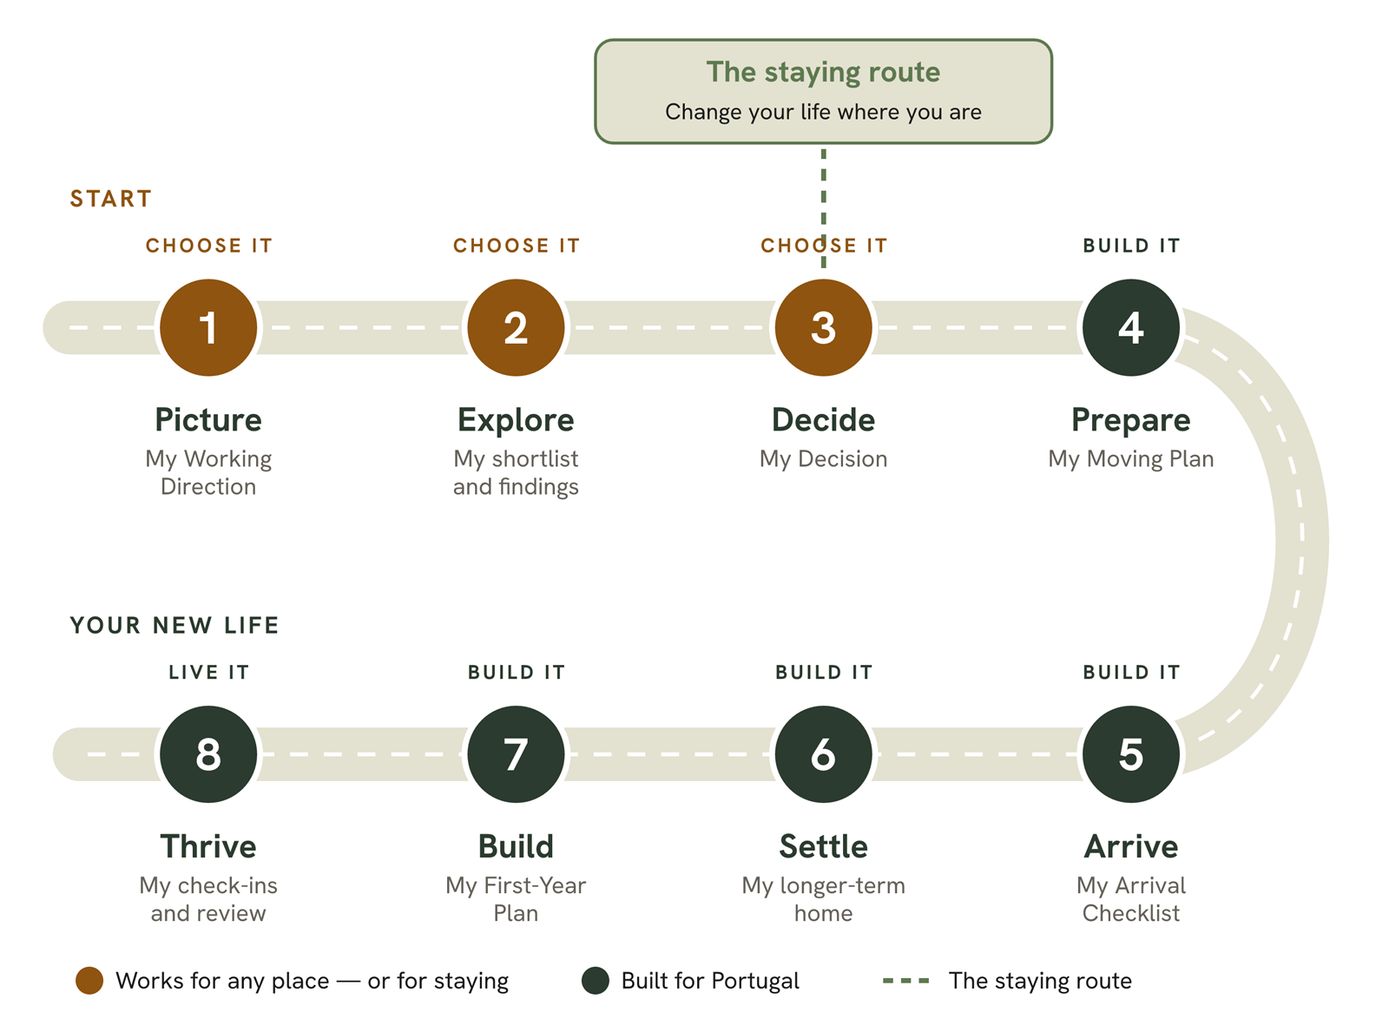
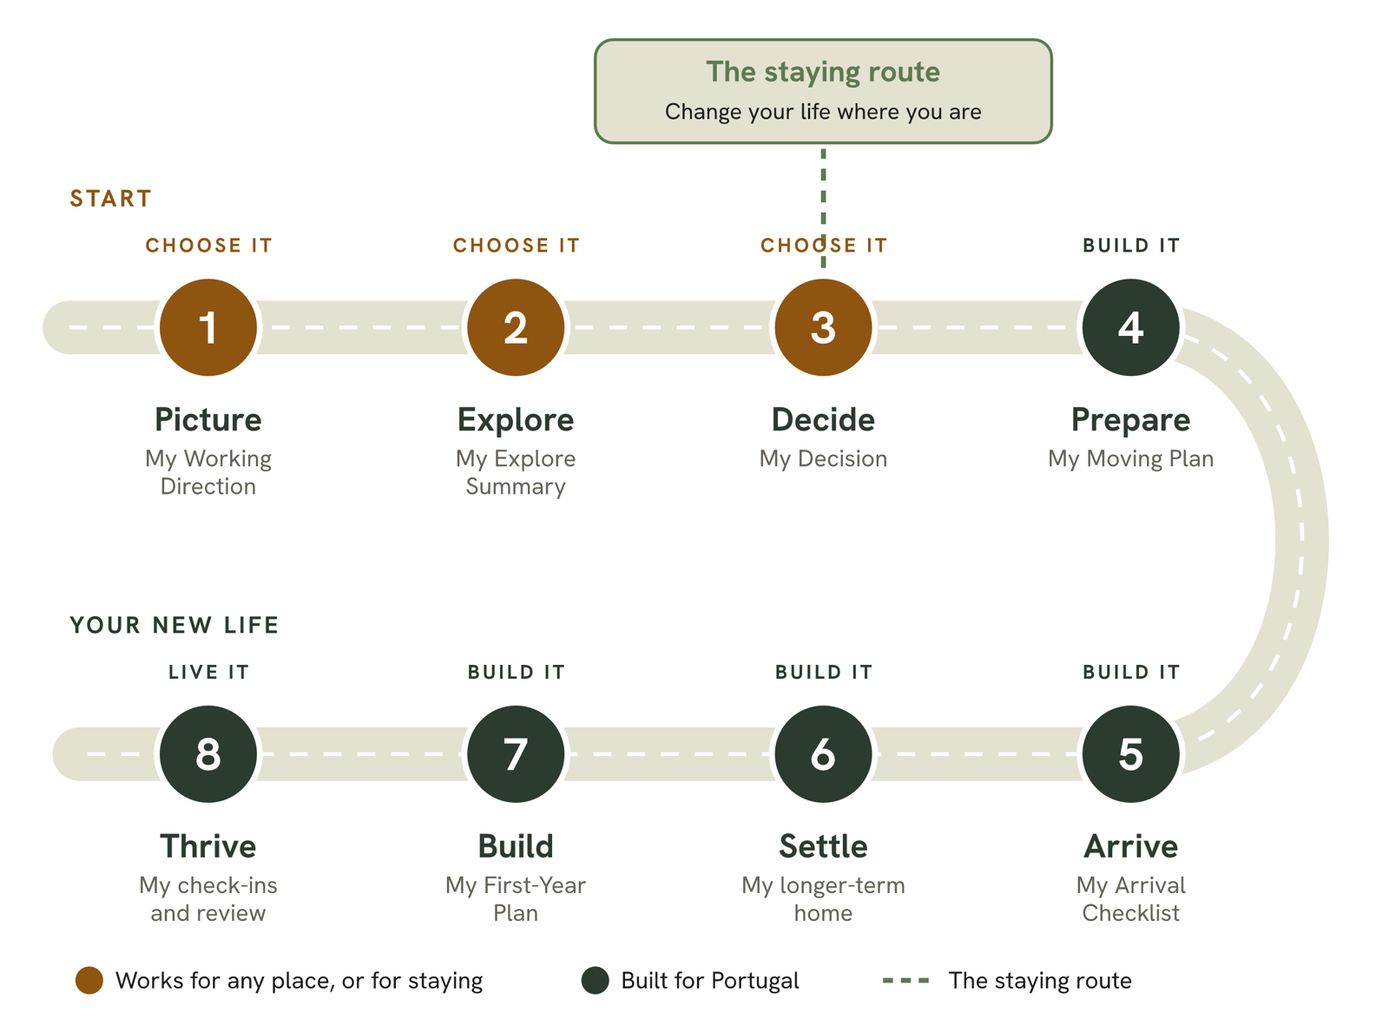
v22: align with workbooks, text edits, new route image
Parts A and B of the 14 October list: new route image, hero and route wording, AI partner naming, app videos line, workbook and money wording, stand-for sentence, FAQ answers, humanised copy, Dutch Tuesday line. Part C (two optional items) not applied. Sitemap dates updated.

diff --git a/index.html b/index.html
@@ -549,7 +549,7 @@ footer a{color:#E6DECF}
     <div class="hero-copy">
       <p class="eyebrow" style="color:var(--ochre-light)">The Made Real Blueprint · An 8-step course</p>
       <h1>Make the life you picture <em>real</em>.</h1>
-      <p class="lead">More time that is really yours. <span class="d">A garden, a project, a slower day. The Made Real Blueprint helps you work out</span><span class="m">Work out</span> what you want, where it can happen and what it could cost.</p>
+      <p class="lead">More time that is really yours. A garden, a project, a slower day. Work out what you want, where it can happen and what it could cost.</p>
       <div class="btn-row">
         <a class="btn btn-ochre" href="#options">Start with Phase 1</a>
         <a class="textlink" href="https://www.maderealblueprint.com/tuesday">Or try a free exercise →</a>
@@ -576,11 +576,11 @@ footer a{color:#E6DECF}
     <p class="eyebrow">Sound familiar?</p>
     <h2>The thought keeps coming back.</h2>
     <p class="thought rv">On Monday morning, on the last day of a holiday, or during a late-night scroll through houses online, the thought returns: <em>what if I just did it?</em></p>
-    <p class="lead muted rv" style="max-width:40em;margin-bottom:36px">On paper, your life looks fine. And yet something is missing. You want things to change, but you don't know where to start. Giving up a steady income and the life you know feels like jumping without a safety net.</p>
+    <p class="lead muted rv" style="max-width:40em;margin-bottom:36px">On paper, your life looks fine. And yet something is missing. You want things to change, but you don't know where to start. Giving up a steady income and the life you know feels risky, and you cannot see a way back if it goes wrong.</p>
     <div class="problems">
       <div class="problem rv"><p class="says">"What if the money runs out?"</p><p class="fix">Do an honest first money check: what the change costs, and how long your savings would last.</p></div>
       <div class="problem rv"><p class="says">"My weeks are full, but little of the time is mine."</p><p class="fix">See where your hours go, decide how you want to spend them, and find what you can change, sometimes without moving at all.</p></div>
-      <div class="problem rv"><p class="says">"My partner isn't as sure as I am, and I wonder what family and friends will say."</p><p class="fix">Use specific exercises to find out what each of you really needs, and how to talk about it together.</p></div>
+      <div class="problem rv"><p class="says">"My partner isn't as sure as I am, and I wonder what family and friends will say."</p><p class="fix">Each of you does the exercises on your own first. Then you compare what each of you needs, and talk about it together.</p></div>
     </div>
     <details class="more">
       <summary>Other things that may be holding you back</summary>
@@ -590,7 +590,7 @@ footer a{color:#E6DECF}
         <div class="problem"><p class="says">"Every forum says something different about visas, taxes and costs."</p><p class="fix">Work with information that shows its source and date, and know which professional to ask.</p></div>
       </div>
     </details>
-    <p class="turn">Moving is not the only good answer. Sometimes the best choice is a real change right where you are. What matters is choosing, instead of drifting.</p>
+    <p class="turn">Moving is not the only good answer. Sometimes the best choice is a real change right where you are. What counts is that you choose, instead of drifting.</p>
   </div>
 </section>
 
@@ -613,19 +613,19 @@ footer a{color:#E6DECF}
     <div class="head">
       <p class="eyebrow">The route</p>
       <h2>Three phases. Eight steps. One blueprint.</h2>
-      <p class="lead">Each step answers one big question and gives you a practical result to work with.</p>
+      <p class="lead">Each step answers one big question and gives you a result you can use.</p>
     </div>
     <div class="phases">
       <div class="ph now rv"><span class="avail">Available now</span><p class="n">Phase 1 · Steps 1–3</p><h3>Choose it</h3><p>Decide honestly what you want, and where. Deciding not to move is a real choice too.</p><p class="range">Picture · Explore · Decide</p></div>
       <div class="ph rv"><span class="avail">Coming soon</span><p class="n">Steps 4–7</p><h3>Build it</h3><p>Put the practical foundations in place, then build your own version of life on them.</p><p class="range">Prepare · Arrive · Settle · Build</p></div>
-      <div class="ph rv"><span class="avail">Coming soon</span><p class="n">Step 8</p><h3>Live it</h3><p>Settle into the ordinary days that follow. And perhaps, one day, help someone who was once where you were.</p><p class="range">Thrive</p></div>
+      <div class="ph rv"><span class="avail">Coming soon</span><p class="n">Step 8</p><h3>Live it</h3><p>Settle into the ordinary days that follow. And perhaps, one day, help someone who was once where you are.</p><p class="range">Thrive</p></div>
     </div>
 
     <details class="more stepsbox">
       <summary>See all eight steps</summary>
       <figure class="route-fig"><img src="img/route-8-steps.png" alt="The route in eight steps. Steps 1 to 3, Picture, Explore and Decide, are Choose it and work for any place or for staying. Steps 4 to 8, Prepare, Arrive, Settle, Build and Thrive, are built for Portugal. A staying route leaves after Step 3 for changing your life where you are." width="1600" height="1189" loading="lazy"></figure>
     </details>
-    <div class="callout"><p><b>Two good outcomes.</b> Steps 1 to 3 work for any destination, including staying where you are. If you decide to stay, Step 3 ends with your staying route: a plan to change your life where you are. That completes your Blueprint. If you choose to move to Portugal, Steps 4 to 8 will guide you through building your life there. Other destinations are on the roadmap, starting with Bali.</p></div>
+    <div class="callout"><p><b>Two good outcomes.</b> Steps 1 to 3 work for any destination, including staying where you are. If you decide to stay, Step 3 ends with your staying route: a plan to change your life where you are. That completes your Blueprint. If you decide to move, Steps 4 to 8 (coming soon) will guide you through building your life in Portugal. Other destinations are on the roadmap, starting with Bali.</p></div>
   </div>
 </section>
 
@@ -636,7 +636,7 @@ footer a{color:#E6DECF}
     <div class="rv">
       <p class="eyebrow">Who made this</p>
       <h2>Hello, I'm Mwata.</h2>
-      <p class="lead">I built a life in Bali, then another in rural Portugal. Along the way, I got help with individual parts, but nobody guided me through the whole journey. I created this Blueprint to share what I learned and help you bring your picture to life. <a href="#story">Read my story →</a></p>
+      <p class="lead">I built a life in Bali, then another in rural Portugal. Along the way, I got help with individual parts, but nobody guided me through the whole journey. I created this Blueprint to share what I learned and help you make your own picture real. <a href="#story">Read my story →</a></p>
     </div>
   </div>
 </section>
@@ -667,20 +667,20 @@ footer a{color:#E6DECF}
         <li class="rcard rv final"><button type="button" data-open="4" aria-label="View sample: My Blueprint"><span class="rimg"><img src="img/results/phase1-blueprint-p1.jpg" alt="Sample My Blueprint, page 1: the decision at a glance, with the three steps and their dates." width="1000" height="1415" loading="lazy"></span><span class="rtag">After Phase 1</span><span class="rtitle">My Blueprint</span><span class="rblurb">Everything together on four pages: your decision, the money and your next chapter.</span></button></li>
       </ul>
       <div class="btn-row"><a class="textlink" href="#options">See Phase 1 and pricing →</a></div>
-      <p class="status" style="margin-top:22px">Work through the exercises to clarify your direction, explore your options and reach a well-informed decision. In the app you can print or save your results after each step, and when you finish Phase 1 you get your personal Blueprint to download. <b>Your five green lights:</b> money, papers, people, place and Plan B. Amber marks something you still need to resolve.</p>
+      <p class="status" style="margin-top:22px">Work through the exercises, and save or print your results after each step. In the app you can print or save your results after each step, and when you finish Phase 1 you get your personal Blueprint to download. <b>Your five green lights:</b> money, papers, people, place and Plan B. Amber marks something you still need to resolve.</p>
       <p class="legend">Illustrative examples using fictional answers (Anna, a made-up person). Your results are made from your own answers, and nothing in them is chosen for you.</p>
     </div>
 
     <div class="object-sub">
       <p class="eyebrow">The app</p>
       <h3 style="font-size:clamp(28px,3.4vw,38px);margin-bottom:12px">One place to learn, do and decide.</h3>
-      <p class="lead" style="max-width:44em;margin-bottom:28px">The app is part of your Phase 1 package, in addition to the PDF workbooks. Do the exercises, print or save your results after each step, and ask the AI assistant when you want to think something through, all on one platform.</p>
+      <p class="lead" style="max-width:44em;margin-bottom:28px">The app is part of your Phase 1 package, in addition to the PDF workbooks. Do the exercises, print or save your results after each step, and ask the AI partner when you want to think something through, all on one platform.</p>
       <div class="shots">
         <div class="shots-text rv">
           <ul class="app-list">
-            <li><b>Start</b> from the course overview. Each step includes a short video where I explain the relevant step (coming soon).</li>
+            <li><b>Start</b> from the course overview. Videos are planned. They are not part of Phase 1 yet; everything you need is in the workbooks and the app.</li>
             <li><b>Do</b> the exercises: each one explains the idea, gives you an example, and helps you apply it to your own situation. Your progress is saved, so you can stop and return when it suits you. After each step you can print or save your results, and finishing Phase 1 gives you your personal Blueprint.</li>
-            <li><b>Think it through</b> with your AI assistant. It helps you reflect on what you wrote. It does not make decisions for you or check real-world facts.</li>
+            <li><b>Think it through</b> with your AI partner. It helps you reflect on what you wrote. It does not make decisions for you or check real-world facts.</li>
           </ul>
           <p class="muted" style="font-size:15px">You choose whether I may read your answers to guide you, and you can change that at any time.</p>
           <p style="margin-top:18px"><a class="btn btn-ghost" href="https://app.maderealblueprint.com/free">Get an impression of the app, with free exercises</a></p>
@@ -706,12 +706,12 @@ footer a{color:#E6DECF}
     </div>
 
     <div class="inc">
-      <div><h4>Conversations that matter</h4><p>Prompts help you talk through your plans with your partner, family and friends.</p></div>
+      <div><h4>Conversations with the people involved</h4><p>Prompts help you talk through your plans with your partner, family and friends.</p></div>
       <div><h4>Information you can check</h4><p>Rules and prices change. I show my sources and when I checked them, and which professional to ask about legal or tax matters.</p></div>
       <div><h4>Begin where you are</h4><p>A short check helps you choose your starting point. About two to three hours a week is enough to make steady progress.</p></div>
     </div>
 
-    <p class="not-this">Not a coaching programme. Not a relocation agency. A practical route: choose it, build it, live it, written by someone who has done it twice.</p>
+    <p class="not-this">The Blueprint is a route through choosing, building and living a new life, written by someone who has done it twice. It does not coach you, and it does not arrange your move for you.</p>
   </div>
 </section>
 
@@ -762,7 +762,7 @@ footer a{color:#E6DECF}
     <div class="page-card"><p class="pg-step">Step 1 · Picture · Part 3</p><h4>3.5 A first money check</h4><p class="pg-sub">Do I have money left each month, and if not, how long do my savings cover the gap?</p>
 <p>That second number is your runway. Runway turns worry into a plan: "I am short 400 a month and have 40 months to work with" gives you a timescale for action.</p>
 <table class="vs money"><tr><th scope="col"><span class="vh">Item</span></th><th scope="col">Example</th><th scope="col">Me</th></tr>
-<tr><th scope="row">1. Confirmed income per month</th><td>€1,600</td><td></td></tr><tr><th scope="row">2. Costs per month in my new life</th><td>€2,000</td><td></td></tr><tr><th scope="row">3. Left over or short</th><td>€400 short</td><td></td></tr><tr><th scope="row">4. Savings I can use</th><td>€30,000</td><td></td></tr><tr><th scope="row">5–7. Minus the move, deposits and my reserve</th><td>− €13,650</td><td></td></tr><tr><th scope="row">8. Savings left to live on</th><td>€16,350</td><td></td></tr><tr><th scope="row">9. Months my savings can cover</th><td>about 40</td><td></td></tr></table>
+<tr><th scope="row">1. Income per month in my new life (confirmed and agreed)</th><td>€1,600</td><td></td></tr><tr><th scope="row">2. Costs per month in my new life</th><td>€2,000</td><td></td></tr><tr><th scope="row">3. Left over or short</th><td>€400 short</td><td></td></tr><tr><th scope="row">4. Savings I can use</th><td>€30,000</td><td></td></tr><tr><th scope="row">5–7. Minus the move, deposits and my reserve</th><td>− €13,650</td><td></td></tr><tr><th scope="row">8. Savings left to live on</th><td>€16,350</td><td></td></tr><tr><th scope="row">9. Months my savings can cover</th><td>about 40</td><td></td></tr></table>
 <p class="legend" style="margin:0">The example is made up: an illustrative budget for a couple renting a small house in central Portugal.</p></div>
   </div>
 </dialog>
@@ -773,11 +773,11 @@ footer a{color:#E6DECF}
   <div class="wrap">
     <div class="head">
       <p class="eyebrow">The options</p>
-      <h2>Your picture deserves a plan.</h2>
+      <h2>A picture needs a plan.</h2>
     </div>
     <div class="founding" id="founding">
       <b>Founding members · first 12</b>
-      <p>I want a small group to experience Phase 1 first. You get the founding price. In return I ask for honest feedback. A testimonial is optional, and I only use your words with your written permission.</p>
+      <p>I want a small group to work through Phase 1 first. You get the founding price. In return I ask for honest feedback. A testimonial is optional, and I only use your words with your written permission.</p>
     </div>
     <div class="offer-grid">
       <div class="offer main" id="opt-phase1">
@@ -788,11 +788,11 @@ footer a{color:#E6DECF}
         <div class="cols">
           <div>
             <p class="lh">You receive</p>
-            <ul><li>The Introduction, with a short check to find your starting point</li><li>The app: exercises, results you can print or save, and an AI assistant</li><li>PDF workbooks: Picture, Explore and Decide</li></ul>
+            <ul><li>The Introduction, with a short check to find your starting point</li><li>The app: exercises, results you can print or save, and an AI partner</li><li>PDF workbooks: Picture, Explore and Decide</li></ul>
           </div>
           <div>
             <p class="lh">You finish with</p>
-            <ul><li>My Working Direction</li><li>My Explore Summary</li><li>A first money check</li><li>My Decision: go, not yet, or no</li><li>If you stay: My Change Plan, your staying route</li><li>A downloadable personal Blueprint</li></ul>
+            <ul><li>My Working Direction</li><li>My Explore Summary</li><li>My First Money Picture</li><li>My Decision: go, not yet, or no</li><li>If you stay: My Change Plan, your staying route</li><li>A downloadable personal Blueprint</li></ul>
           </div>
         </div>
         <p class="after" style="margin-top:8px">Start now and the price you paid is deducted when the whole Blueprint opens. You never pay twice.</p>
@@ -857,7 +857,7 @@ footer a{color:#E6DECF}
           <li><span class="when">Three years later</span><h3>A new picture</h3><p>Bali changed, and so did I. I missed being creative: building things and working in a garden. A YouTube channel about living more self-sufficiently set me thinking about another move.</p></li>
           <li><span class="when">April 2024</span><h3>The third plot</h3><p>I travelled through Portugal in a campervan, exploring the regions and visiting plots I had shortlisted. I had not planned to buy on that trip. But when I saw the third plot, I knew it was the one.</p></li>
           <li><span class="when">August 2024</span><h3>Signing</h3><p>I signed the purchase agreement. My money plan was already in place, so I was not afraid to commit. By the end of that year, the land was officially mine.</p></li>
-          <li class="now"><span class="when">Today</span><h3>Living it</h3><p>I live on my land in rural central Portugal, surrounded by nature, with enough projects to keep me creative for years. It is not finished, and it does not have to be. It is real.</p></li>
+          <li class="now"><span class="when">Today</span><h3>Living it</h3><p>I live on my own plot of land in the countryside of central Portugal, with enough projects to keep me creative for years. It is not finished, and it does not have to be. It is real.</p></li>
         </ol>
         <div class="story-photos">
           <img class="a" src="images/nl-house.jpg" alt="Aerial view of Mwata's former house in the Netherlands, with a curved thatched roof and a garden." loading="lazy" width="1100" height="618">
@@ -878,7 +878,7 @@ footer a{color:#E6DECF}
   <div class="wrap">
     <p class="eyebrow" style="color:var(--ochre-light)">What I stand for</p>
     <p class="statement">A life is chosen and built, not inherited or drifted into.</p>
-    <p class="lead" style="color:#E6DECF">The life you live today is the result of choices, and you can make different ones. Not by dreaming harder, but by deciding, planning and building, one step at a time.</p>
+    <p class="lead" style="color:#E6DECF">The life you live today is the result of choices, and you can make different ones. You do that by deciding, planning and building, one step at a time.</p>
     <div class="pvm2">
       <div><h3>My picture <small>(my vision)</small></h3><p>I build a life where I am present, dependable, and true to my values. I have the freedom to shape most of my days, spend time in nature, explore, and work on meaningful projects with the people I love.</p></div>
       <div><h3>Why I do this <small>(my purpose)</small></h3><p>To inspire and help people realise the life they truly want by sharing my experience, practical knowledge and the tools that help them make it happen.</p></div>
@@ -896,12 +896,12 @@ footer a{color:#E6DECF}
     <details><summary>What does it mean to be a founding member?</summary><p>The first 12 people who buy Phase 1 get it at the founding price of €99. In return, I ask for honest feedback as you work through the steps: what is clear, what is missing, and what helped. A testimonial is optional, and I only use it with your written permission.</p></details>
     <details><summary>Which option is right for me?</summary><p>Not sure yet what you want, or where? Start with Phase 1. It works for Portugal and other places, but also for real changes at home. Already sure about Portugal? The whole Blueprint starts with Phase 1 as well, because a clear picture of the life you want helps you judge every choice that follows.</p></details>
     <details><summary>Do I have to move to Portugal?</summary><p>No. Phase 1 works for any destination, and for staying where you are. Steps 4 to 8 focus on Portugal because that is where I live now and where I built a life.</p></details>
-    <details><summary>What if I decide to stay where I am?</summary><p>That is a real result, not a failure. The option you test in Step 3 can also be a change where you live, such as working fewer days, a new job, your own business, more space or another region in your own country. If you decide to stay, Step 3 ends with your staying route: My Change Plan, with a date, a first step and a check-in. That completes your Blueprint.</p></details>
+    <details><summary>What if I decide to stay where I am?</summary><p>That is a real result. The option you test in Step 3 can also be a change where you live, such as working fewer days, a new job, your own business, more space or another region in your own country. If you decide to stay, Step 3 ends with your staying route: My Change Plan, with a date, a first step and a check-in. That completes your Blueprint.</p></details>
     <details><summary>Do I need the app, or can I use the PDF workbooks on paper?</summary><p>You can complete the PDF workbooks on paper or on screen. To print or save your results after each step, and to get your personal Blueprint when you finish Phase 1, you enter your answers in the app.</p></details>
     <details><summary>Is the free Tuesday exercise only for people who choose Portugal?</summary><p>No. Phase 1 and the free Tuesday exercise work for any destination, including staying where you are. Steps 4 to 8 focus on Portugal.</p></details>
     <details><summary>What exactly do I receive, and how?</summary><p>Right after payment, you receive the Introduction and the Phase 1 workbooks as PDF downloads, plus the app with the exercises. In the app you can print or save your results after each step, and when you finish Phase 1 you get your personal Blueprint. Each workbook explains the ideas, gives made-up examples, and has space for your own answers.</p></details>
     <details><summary>Can I start with Phase 1 and get the whole Blueprint later?</summary><p>Yes. When the whole Blueprint opens, the price you paid for Phase 1 is deducted, so you never pay twice.</p></details>
-    <details><summary>I already know what I want. Can I skip ahead?</summary><p>I recommend still walking through all the steps: it helps you confirm the picture you have in mind. In my experience, most people still benefit, because it also helps you judge every choice afterwards.</p></details>
+    <details><summary>I already know what I want. Can I skip ahead?</summary><p>You can. The short check in the Introduction helps you choose where to start, from Step 1 to Step 3. Even if you start later, read Step 1 briefly: your picture of the life you want helps you judge every later choice.</p></details>
     <details><summary>How much time does it take?</summary><p>About two to three hours a week. Short, regular blocks of time work better than one long weekend.</p></details>
     <details><summary>Do you give legal or tax advice?</summary><p>No. Rules and prices change, so I always show the source and the date I checked. For legal, tax and money decisions, the workbooks help you find the right professional and the right questions to ask.</p></details>
     <details><summary>Is my English good enough?</summary><p>The Blueprint is written in short, simple sentences for people who speak English as a second language. It explains every Portuguese or official word the first time. The workbooks are in English. Questions before you buy? You can send me a message in English or Dutch.</p></details>

diff --git a/dinsdag/index.html b/dinsdag/index.html
@@ -14,7 +14,7 @@
 <meta property="og:site_name" content="The Life You Choose">
 <meta property="og:url" content="https://maderealblueprint.com/dinsdag/">
 <meta property="og:title" content="Een gewone dinsdag: een gratis oefening">
-<meta property="og:description" content="Zie één gewone dag in het leven dat je wilt voor je, zo concreet dat je het kunt testen. Gratis pdf van The Made Real Blueprint.">
+<meta property="og:description" content="Stel je één gewone dag voor in het leven dat je wilt, zo concreet dat je hem kunt testen. Gratis pdf van The Made Real Blueprint.">
 <meta property="og:image" content="https://maderealblueprint.com/images/dinsdag-preview.jpg">
 <meta property="og:image:width" content="1200">
 <meta property="og:image:height" content="900">
@@ -89,7 +89,7 @@ footer a{color:#E6DECF}
     <div>
       <p class="eyebrow">Gratis oefening · uit Stap 1 van The Made Real Blueprint</p>
       <h1>Een gewone <em>dinsdag</em>.</h1>
-      <p class="lead">Geen vakantie. Een gewone dinsdag, want de meeste dagen zijn gewone dagen. Zie één gewone dag in het leven dat je wilt voor je, zo concreet dat je het kunt testen.</p>
+      <p class="lead">Geen vakantie. Een gewone dinsdag, want de meeste dagen zijn gewone dagen. Stel je één gewone dag voor in het leven dat je wilt, zo concreet dat je hem kunt testen.</p>
       <p>Een pdf van 3 pagina's om te printen of op je scherm in te vullen:</p>
       <ul class="gets">
         <li>Een korte opwarmer: momenten die goed voelden</li>
